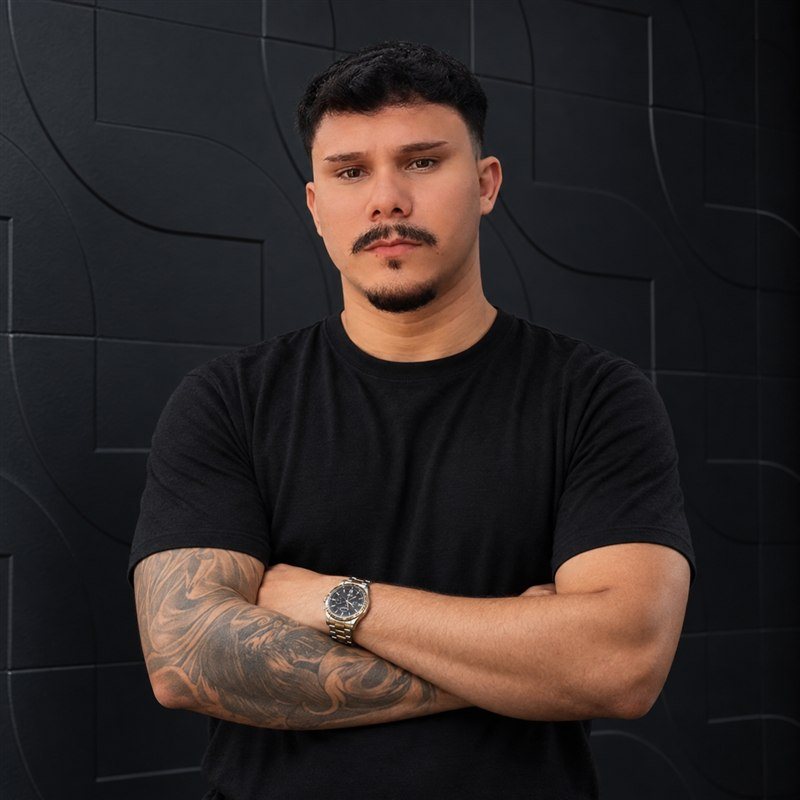
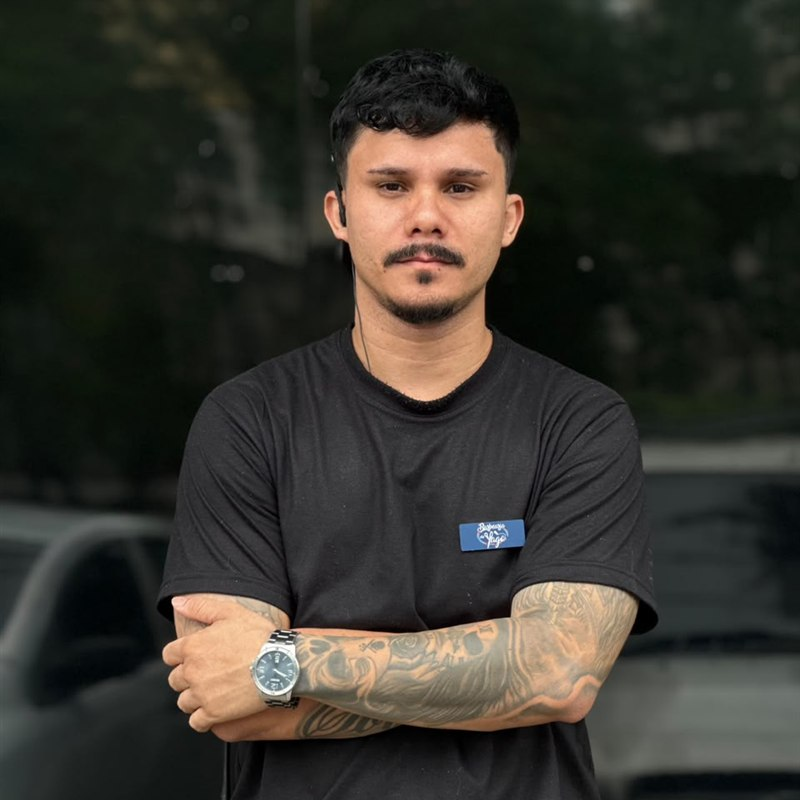
Atualiza foto do Thiago

diff --git a/index.html b/index.html
@@ -898,7 +898,7 @@
         <figure class="member"><img src="assets/team/alcantara/nata.jpg?v=20260916" alt="Natã" /><figcaption>Natã</figcaption></figure>
         <figure class="member"><img src="assets/team/alcantara/richard.jpg?v=20260916" alt="Richard" /><figcaption>Richard</figcaption></figure>
         <figure class="member"><img src="assets/team/alcantara/suede.jpg?v=20260916" alt="Suede" /><figcaption>Suede</figcaption></figure>
-        <figure class="member"><img src="assets/team/alcantara/thiago.jpg" alt="Thiago" /><figcaption>Thiago</figcaption></figure>
+        <figure class="member"><img src="assets/team/alcantara/thiago.jpg?v=20260918" alt="Thiago" /><figcaption>Thiago</figcaption></figure>
       </div>
       <div class="team-grid" id="team-mar" role="tabpanel" aria-labelledby="tab-mar" hidden>
         <figure class="member"><img src="assets/team/marica/araujo.png" alt="Araujo" /><figcaption>Araujo</figcaption></figure>
